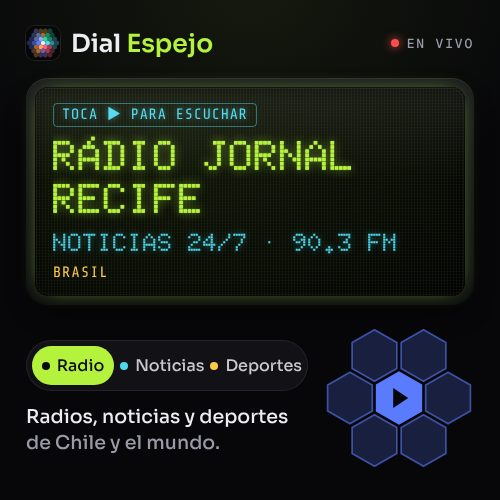
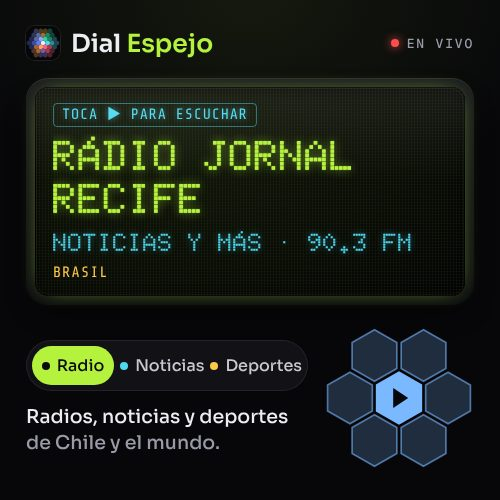
Dial Espejo: Rádio Jornal Recife pasa a Noticias y más (de noche transmite música)
Claude-Session: https://claude.ai/code/session_01CU8of1o6sMyGwDMk6boJyL

diff --git a/public/dial-espejo/index.html b/public/dial-espejo/index.html
@@ -1216,7 +1216,7 @@ Educadora FM Bahia|Educadora|BR|culture|pt|.35|.45|2|107.5|pública salvador bah
 Rádio Metrópole|Metrópole|BR|gen|pt|.8|.5|2|101.3|noticias opinión salvador bahia nordeste|https://listen.radioking.com/radio/268642/stream/313975||https://www.metro1.com.br/
 Frei Caneca FM|Frei Caneca|BR|culture|pt|.3|.5|2|101.5|pública recife frevo manguebeat nordeste|https://centova3.transmissaodigital.com/proxy/freicaneca/stream||https://freicanecafm.recife.pe.gov.br/
 Rádio Clube Pernambuco|Clube PE|BR|folk|pt|.1|.7|2|99.1|recife piseiro forró brega nordeste|https://radio.saopaulo01.com.br/8016/stream||https://clubepe.fm/
-Rádio Jornal Recife|Jornal PE|BR|news|pt|.9|.5|2|90.3|noticias deportes recife pernambuco nordeste|https://player-ne10-radiojornal-app.stream.uol.com.br/live/radiojornalrecifeapp_lsd.m3u8||https://radiojornal.com.br/
+Rádio Jornal Recife|Jornal PE|BR|gen|pt|.65|.5|2|90.3|noticias deportes recife pernambuco nordeste|https://player-ne10-radiojornal-app.stream.uol.com.br/live/radiojornalrecifeapp_lsd.m3u8||https://radiojornal.com.br/
 Rádio Tabajara|Tabajara|BR|folk|pt|.2|.55|2|105.5|pública paraíba forró mpb nordeste|https://stm2.xcast.com.br:7524/stream||https://radiotabajara.pb.gov.br/
 MGT Forró|MGT Forró|BR|folk|pt|.02|.7|1||forró pé-de-serra xote baião nordeste recife|https://cast.mgtradio.net/radio/8050/aac||https://www.mgtradio.net/
 Rádio Forró Brega|Forró Brega|BR|folk|pt|.02|.75|1||forró brega piseiro ceará nordeste|https://stream-280.surfernetwork.com/38zc8xggntzuv||https://www.forrobrega.com.br/
@@ -2772,7 +2772,7 @@ window.altShow=()=>show(view||"constelacion");
 <script>
 /* ===================== Dial Espejo · navegación, versión y Noticias ===================== */
 (function(){
-const APP_VERSION="2026-11-17v";
+const APP_VERSION="2026-11-17w";
 const SB="https://yfjaznujnvkqgdlbnviu.supabase.co";
 const KEY="eyJhbGciOiJIUzI1NiIsInR5cCI6IkpXVCJ9.eyJpc3MiOiJzdXBhYmFzZSIsInJlZiI6InlmamF6bnVqbnZrcWdkbGJudml1Iiwicm9sZSI6ImFub24iLCJpYXQiOjE3Nzg4MTQ0MzUsImV4cCI6MjA5NDM5MDQzNX0.MXqauoUi_6_VWWfjZEokpRVXg2cB8N5uo9nHbt5tXvM";
 const H={apikey:KEY,Authorization:"Bearer "+KEY};

diff --git a/public/dial-espejo/r/radio-jornal-recife/index.html b/public/dial-espejo/r/radio-jornal-recife/index.html
@@ -1,10 +1,10 @@
 <!doctype html><html lang="es"><head><meta charset="utf-8">
 <title>Rádio Jornal Recife · Dial Espejo</title>
 <meta name="viewport" content="width=device-width,initial-scale=1">
-<meta name="description" content="Noticias 24/7 · Brasil · 90.3 FM. Toca y escucha en Dial Espejo.">
+<meta name="description" content="Noticias y más · Brasil · 90.3 FM. Toca y escucha en Dial Espejo.">
 <meta property="og:site_name" content="Dial Espejo">
 <meta property="og:title" content="Rádio Jornal Recife">
-<meta property="og:description" content="Noticias 24/7 · Brasil · 90.3 FM. Toca y escucha en Dial Espejo.">
+<meta property="og:description" content="Noticias y más · Brasil · 90.3 FM. Toca y escucha en Dial Espejo.">
 <meta property="og:type" content="website">
 <meta property="og:url" content="https://ocd-race-labs.github.io/music-studio/dial-espejo/r/radio-jornal-recife/">
 <meta property="og:image" content="https://ocd-race-labs.github.io/music-studio/dial-espejo/og/radio-jornal-recife.jpg?v=2">
